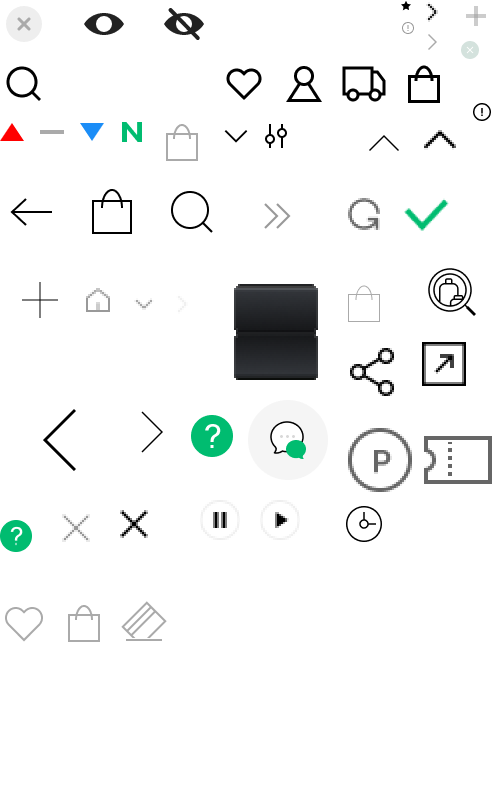
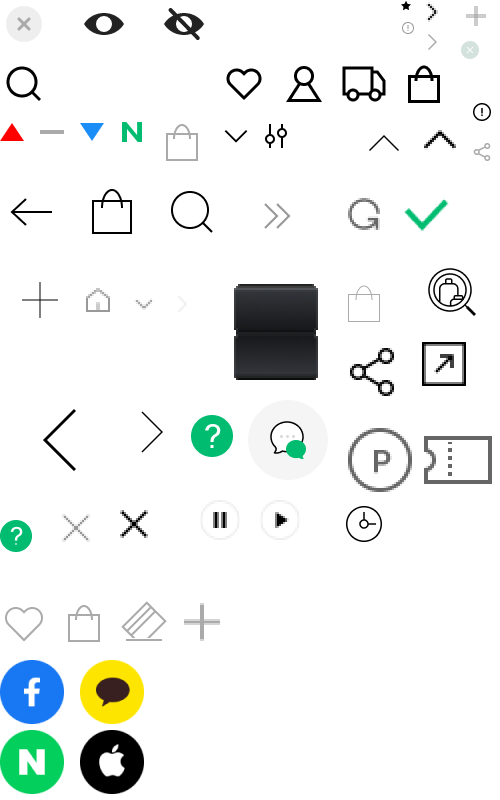
스프라이트 pc 이미지 업데이트

Changed region(s): [[0.0, 0.8125, 0.3, 1.0], [0.36, 0.75, 0.45, 0.8125]]

diff --git a/pages/publish/IN_PC_ORD_01_01.vue b/pages/publish/IN_PC_ORD_01_01.vue
@@ -377,6 +377,66 @@
           <h3>결제수단 선택</h3>
         </div>
       </div>
+      <div class="table_wrap">
+        <table>
+            <caption>결제수단 선택</caption>
+            <colgroup>
+                <col style="">
+            </colgroup>
+            <tbody>
+                <tr>
+                  <td>
+                    <Inputs _type="radio" _text="신용카드 결제" _name="pay_method" />
+                    <Inputs _type="radio" _text="원클릭 결제" _name="pay_method"/>
+                    <Inputs _type="radio" _text="다른 결제 수단" _name="pay_method"/>
+                  </td>
+                </tr>
+            </tbody>
+        </table>
+      </div>
+      <article class="method_card">
+        <ul>
+          <li></li>
+        </ul>
+        <a href="#none">무이자할부</a>
+        <p class="tosspay">
+          <span>저희 쇼핑몰은 고객님의 안전한 거래를 위해 무통장입금/계좌이체 거래에 대해 구매안전서비스를 적용하고 있습니다.</span>
+          <Button txt="토스페이먼츠 구매안전 서비스 가입확인" class="btn_min_outline" />
+        </p>
+      </article>
+      <article class="method_onclick">
+        <div>
+          <button>
+            <span>대표카드를 등록해 주세요</span>
+          </button>
+        </div>
+        <p class="tosspay">
+          <span>저희 쇼핑몰은 고객님의 안전한 거래를 위해 무통장입금/계좌이체 거래에 대해 구매안전서비스를 적용하고 있습니다.</span>
+          <Button txt="토스페이먼츠 구매안전 서비스 가입확인" class="btn_min_outline" />
+        </p>
+      </article>
+      <article class="method_other">
+        <ul>
+          <li></li>
+        </ul>
+
+        <div class="paycont">
+          <p>
+            <strong></strong>
+            <ul>
+              <li></li>
+            </ul>
+          </p>
+          <dl>
+            <dt>유의사항</dt>
+            <dd></dd>
+          </dl>
+        </div>
+        <p class="tosspay">
+          <span>저희 쇼핑몰은 고객님의 안전한 거래를 위해 무통장입금/계좌이체 거래에 대해 구매안전서비스를 적용하고 있습니다.</span>
+          <Button txt="토스페이먼츠 구매안전 서비스 가입확인" class="btn_min_outline" />
+        </p>
+      </article>
     </section>
 
     <section class="soldout">
@@ -1566,6 +1626,64 @@ button.tooltip {
   height: 16px;
   margin-left:5px;
   background-position: 0px -260px;
+}
+
+.pay_method {
+  .table_wrap {
+    table {
+      tbody {
+        tr {
+          td {
+            display:flex;
+            .input_wrap {
+              width:18%;
+            }
+          }
+        }
+      }
+    }
+  }
+  article {
+    padding:40px 0 0;
+    &.method_card {}
+    &.method_onclick{
+      > div {
+        width:100%;
+        button {
+          width:300px;
+          height:180px;
+          margin:0 auto;
+          color:#000;
+          font-size:16px;
+          line-height:1.25;
+          border:1px dashed #DDDDDD;
+          border-radius:5px;
+          background: #F5F5F5;
+          display:block;
+          span {
+            &::before {
+              content:'';
+              width:24px;
+              height:25px;
+              margin:0 auto;
+              border:1px solid red;
+              background-image: url('/_nuxt/assets/images/common/icon_split.png');
+              background-repeat:no-repeat;
+              background-size:250px;
+              background-position:0px 0px;
+              display:block;
+            }
+          }
+        }
+      }
+    }
+    &.method_other{}
+  }
+  .tosspay {
+    margin:40px 0 0;
+    padding:20px 0 0;
+    border-top:1px solid #eee;
+  }
 }
 
 </style>
